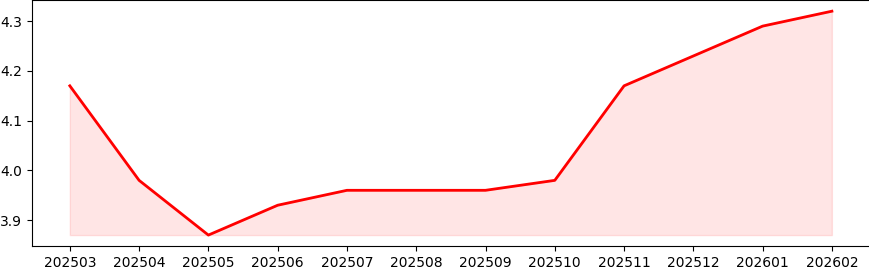
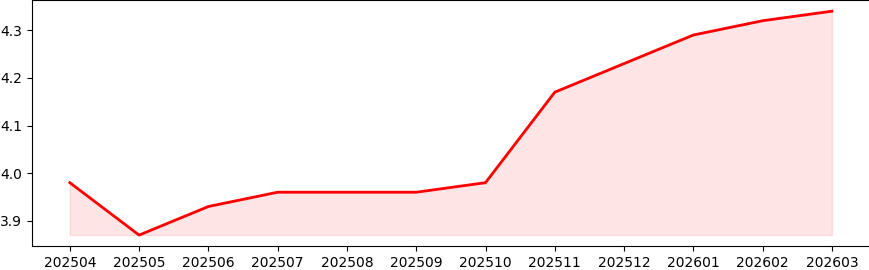
📈 README 및 금리 데이터 자동 업데이트 (2026-04-28)

diff --git a/README.md b/README.md
@@ -8,7 +8,6 @@
 
 |날짜|ITEM_NAME1|DATA_VALUE|
 |---|---|---|
-|202503|주택담보대출|4.17|
 |202504|주택담보대출|3.98|
 |202505|주택담보대출|3.87|
 |202506|주택담보대출|3.93|
@@ -20,6 +19,7 @@
 |202512|주택담보대출|4.23|
 |202601|주택담보대출|4.29|
 |202602|주택담보대출|4.32|
+|202603|주택담보대출|4.34|
 
 
 ## 💳 일반신용대출
@@ -30,7 +30,6 @@
 
 |날짜|ITEM_NAME1|DATA_VALUE|
 |---|---|---|
-|202503|일반신용대출 2)|5.48|
 |202504|일반신용대출 2)|5.28|
 |202505|일반신용대출 2)|5.21|
 |202506|일반신용대출 2)|5.03|
@@ -42,4 +41,5 @@
 |202512|일반신용대출 2)|5.87|
 |202601|일반신용대출 2)|5.55|
 |202602|일반신용대출 2)|5.53|
+|202603|일반신용대출 2)|5.57|
 
